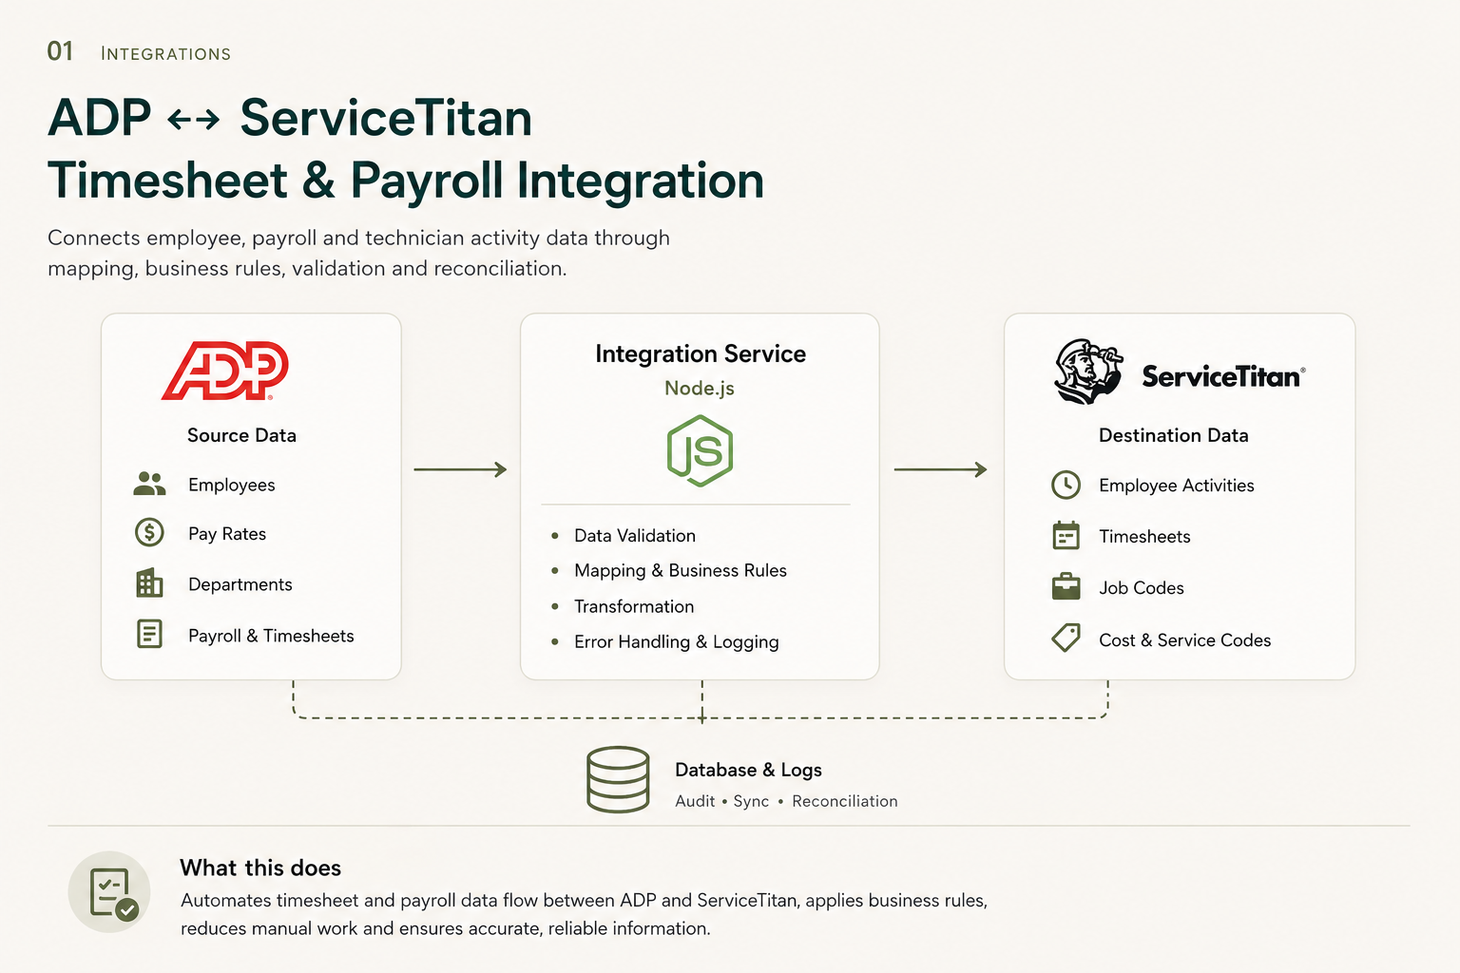
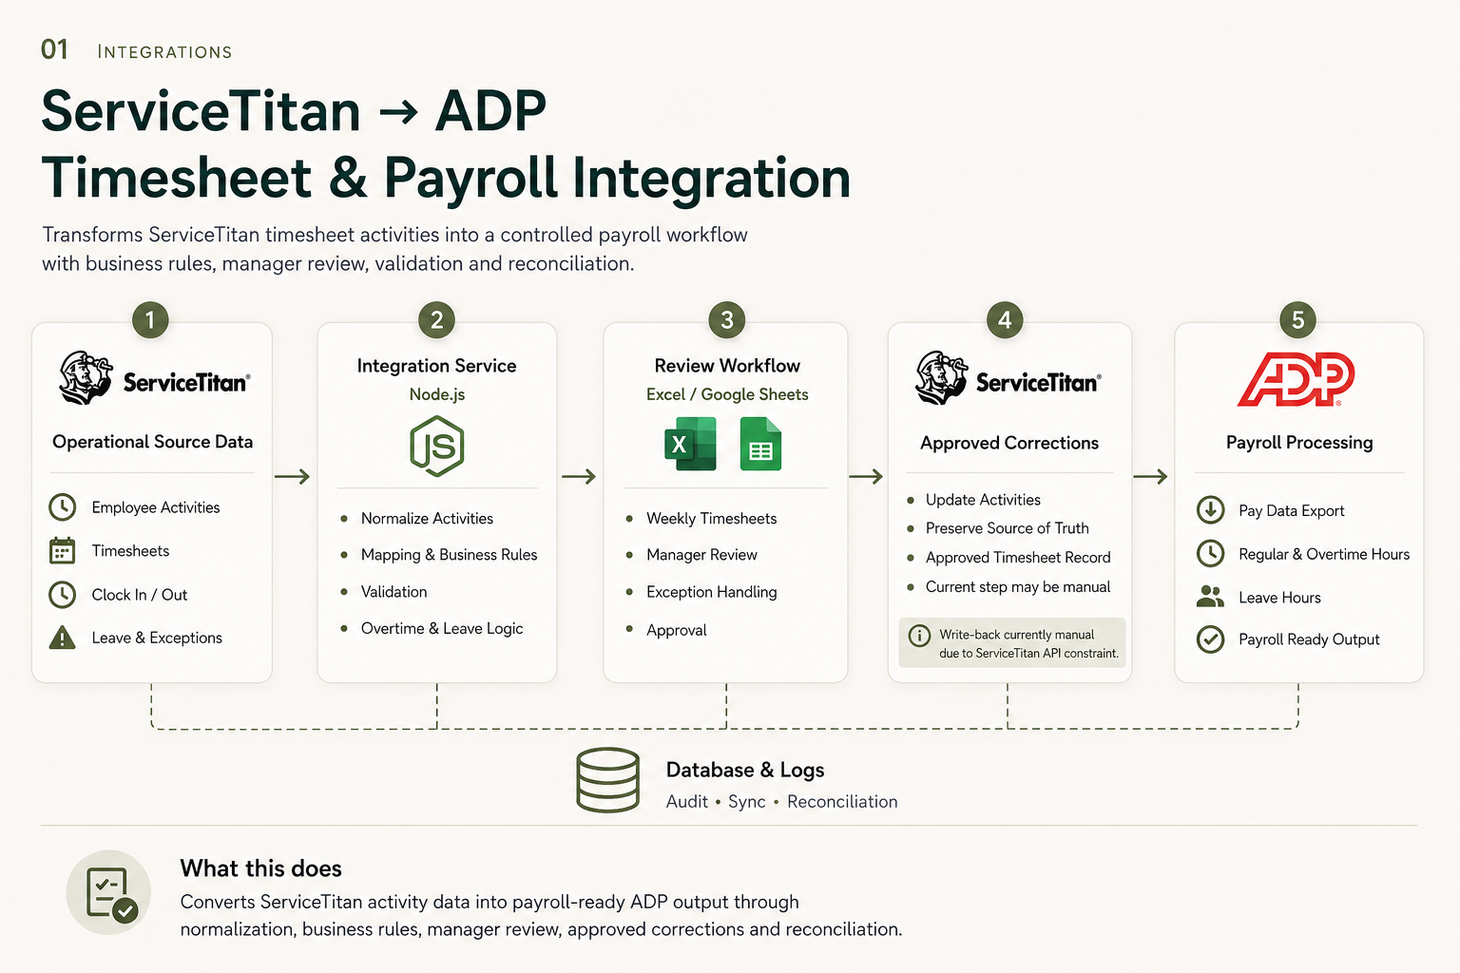
Update ServiceTitan payroll case study

diff --git a/case-studies.js b/case-studies.js
@@ -5,14 +5,14 @@ const cases={
   crm:{index:"04",title:"CRM Integration & Reporting System",image:"../assets/images/detail_pages/crm-integration-hero.png",caption:"The review experience keeps matching decisions and exceptions visible instead of hiding them in system logs.",position:"Connecting operational data so routine work is automated and exceptions stay visible.",role:"Requirements · Integration · Delivery",focus:"Systems",tech:"Node.js · APIs · SQL · Automation",problem:"Customer and operational information moves between tools that were not designed as one system. Manual transfer and reconciliation make accuracy depend on repeated human effort.",learned:"I translated the operational workflow into requirements and rules: where records originate, how matches are identified, what can be automated safely and which cases require review.",approach:"Map the operational decisions with stakeholders before building the connection, then treat validation, matching and exception handling as part of the core workflow.",built:"The system connects CRM and operational data, validates and matches records, preserves ambiguous cases for review and supports auditable reporting.",ux:"Status language explains what happened, what did not happen and what action is available. The review experience prioritizes exceptions instead of raw technical logs.",implementation:"Node.js coordinates API requests and workflow rules; SQL supports record and audit views; automated jobs advance repeatable work while keeping exceptions visible.",accessibility:"Review states use text as well as colour, controls support keyboard use, and tables retain meaningful headers and reading order.",measurement:"The framework includes reconciliation quality, exception volume and age, successful processing, duplicate prevention and remaining manual effort.",outcome:"The system connects operational data and makes reporting more reliable through a consistent, auditable workflow. No undocumented record counts or time savings are claimed.",lesson:"A reliable integration needs to explain its exceptions as clearly as it handles successful records.",flow:["Receive","Validate","Connect","Review"],next:"../index.html#work",nextTitle:"Return to selected work"},
   reporting:{index:"Supporting example",title:"Automated Reporting Dashboard",position:"Turning recurring report preparation into a clearer, repeatable view of operational performance.",role:"Requirements · Data logic · Experience",focus:"Reporting",tech:"SQL · Dashboards · KPI Reporting · Automation",problem:"Useful data is distributed across systems, leaving someone to repeatedly gather, clean and format it. Definitions can drift and stakeholders can struggle to see what needs attention.",learned:"I worked backward from stakeholder questions: which measures matter, how each is defined, what context makes it useful and how often it needs to refresh.",approach:"Start with the decision, agree on definitions and then build the smallest useful reporting view around those questions.",built:"The reporting system centralizes operational data, applies reusable KPI logic and presents dashboard views organized around recurring business questions.",ux:"KPI names use business language, definitions stay consistent and context appears close to the number it explains. Views prioritize decisions over every available metric.",implementation:"SQL structures and prepares data; automation supports consistent refreshes; dashboard components communicate totals, trends, comparisons and exceptions.",accessibility:"Charts are supported by labels or tabular values, colour is never the only signal, keyboard focus is visible and responsive views preserve meaning.",measurement:"The workflow can be assessed through refresh reliability, data exceptions, stakeholder comprehension, recurring usage and remaining manual preparation.",outcome:"The qualitative value is centralized KPI reporting, less repetitive preparation and clearer operational visibility. No undocumented percentage or time saving is presented.",lesson:"A dashboard becomes useful when the language and definitions are as reliable as the data.",flow:["Collect","Prepare","Calculate","Explain"],next:"../index.html#work",nextTitle:"Return to selected work"}
 };
-cases.adp={index:"01",title:"ADP ↔ ServiceTitan Timesheet & Payroll Integration",position:"Connecting employee, payroll and technician activity data through a controlled operational workflow.",role:"Requirements · Integration · Production support",focus:"Systems Integration",tech:"Node.js · REST APIs · Data Mapping · Reconciliation",problem:"Timesheet and payroll processing depends on employee data, technician activity and operational rules that live across separate systems. Without a controlled integration, mapping differences and exceptions require repeated manual checking.",learned:"I mapped how employee and technician identities relate, which activity belongs in the payroll workflow, how overtime and leave rules affect processing, and which exceptions need review before an update is accepted.",approach:"Treat the payroll workflow as a sequence of explicit business decisions: identify the person, normalize the activity, apply the relevant rule, validate the result and preserve anything uncertain for review.",built:"A timesheet and payroll integration that coordinates ADP employee and payroll data with ServiceTitan technician and activity data. The workflow supports mapping, business rules, validation, exception handling and reconciliation.",ux:"Review information is organized around actionable exceptions rather than raw payloads. Spreadsheet-based review can support the workflow where human verification is required without becoming the source of hidden business logic.",implementation:"Node.js services coordinate REST API requests and integration rules. Mapping connects employee and technician records; processing rules account for timesheet conditions such as overtime and leave; validation gates updates before synchronization.",accessibility:"Operational status and exception states use clear text labels, reviewable tables and consistent terminology so that decisions do not depend on colour alone.",measurement:"The workflow can be evaluated through successful processing, unresolved exceptions, reconciliation differences, duplicate prevention and the amount of manual correction still required.",outcome:"The integration creates a repeatable path between timesheet, payroll and operational data while keeping exceptions available for human review. No confidential records or undocumented performance metrics are presented.",lesson:"Payroll automation is reliable only when mapping, business rules and reconciliation are designed as core parts of the system.",flow:["Map","Apply rules","Validate","Synchronize"],requirements:"The integration needs to preserve employee and technician identity across systems, apply payroll-related rules consistently, prevent invalid updates and provide a review path for overtime, leave and mapping exceptions.",architecture:["ADP employee / payroll data","ServiceTitan technician / activity data","Mapping + business rules","Validation + update workflow","Review + reconciliation"],validation:"Records are normalized and matched before payroll rules are applied. Invalid, incomplete or ambiguous cases are held for review rather than synchronized automatically. Reconciliation compares processed results with the expected operational state; Excel or Google Sheets may support review where it is part of the real operating workflow.",next:"spotio-servicetitan-integration.html",nextTitle:"Spotio ↔ ServiceTitan CRM Integration"};
+cases.adp={index:"01",title:"ServiceTitan → ADP Timesheet & Payroll Integration",position:"Turning operational time tracking into a controlled payroll workflow with manager review, business-rule validation and reconciliation.",role:"Requirements · Systems Integration · Workflow Design · Production Support",focus:"Systems Integration · Payroll Automation",tech:"Node.js · REST APIs · Excel / Google Sheets · Data Mapping · Validation · Reconciliation",problem:"Employees record their working time in ServiceTitan, but the activity data generated during the workday is not automatically ready for payroll. A single employee can have multiple daily activities—including working periods, onsite time, office time, meals and leave—while payroll also depends on unpaid lunch deductions, weekly overtime and approved leave. Managers need to review and correct this information without manually reconstructing every employee’s week.",learned:"I mapped the full timesheet lifecycle: ServiceTitan activity → normalization → business rules → manager review → correction → approval → payroll processing. This required understanding which activities represent payable time, how multiple activities combine into a workday, how leave is represented, how weekly overtime is calculated and how approved corrections propagate. The process applies to every employee included in the payroll workflow, not only field technicians.",approach:"I designed the integration around one principle: payroll data should not leave the operational workflow until it has been validated. ServiceTitan remains the operational system of record. The integration extracts and normalizes its activity data, then generates structured Excel / Google Sheets timesheets for manager review and approval.",built:"I developed a Node.js integration that retrieves ServiceTitan timesheet activities and converts them into a structured payroll review workflow. It extracts activities, normalizes employee/day/week records, applies payroll rules, generates manager-facing timesheets, captures approved corrections and prepares validated data for ADP.",ux:"The spreadsheet is an operational review and approval layer, not just a reporting output. Managers can inspect employee hours, identify exceptions and provide corrections before payroll continues. Cases where automation should not guess—missing mappings, incomplete activities, unexpected activity types or inconsistent time records—remain visible for review.",implementation:"Node.js services coordinate ServiceTitan and ADP REST API operations, employee mapping, activity classification, business-rule processing and validation. Activities are processed individually instead of collapsing a day into its first start and last end time, preventing excluded intervals from being paid. The workflow preserves intermediate results so managers can see why regular, overtime or leave hours were produced.",accessibility:"Manager-facing weekly views use structured labels, consistent terminology and visible exception states. Decisions do not depend on colour alone, and the review workflow keeps the reason for each calculated result available to the reviewer.",measurement:"The workflow can be evaluated through successfully processed employee timesheets, unresolved activity and identity exceptions, manager corrections required before approval, reconciliation differences, rejected or failed system updates and payroll records successfully prepared after validation.",outcome:"The integration replaces fragmented payroll preparation with a repeatable path: ServiceTitan activity → payroll rules → manager review → approved operational record → ADP. It preserves a clear source of truth by resolving corrections in ServiceTitan before payroll is generated. No confidential employee information or undocumented performance metrics are presented.",lesson:"The difficult part of payroll integration is not moving data between two APIs; it is deciding when data is trustworthy enough to move. Explicit business rules, manager review and reconciliation make the workflow safer and easier to reason about.",flow:["Extract","Normalize","Apply rules","Review","Correct & approve","Synchronize"],requirements:"Worked activities are evaluated individually so excluded periods are not accidentally paid. Processing accounts for payable versus non-payable activity types, unpaid meal time, Sick, Vacation and Bereavement leave, weekly overtime after 44 hours, employee-to-payroll identity mapping and incomplete or ambiguous records requiring review.",architecture:["Time recorded in ServiceTitan","Extract + process activities","Excel / Google Sheets review","Manager correction + approval","Corrections return to ServiceTitan","Validated data prepared for ADP","Reconciliation"],validation:"Valid records proceed; records requiring manager review, mapping failures, business-rule exceptions, write failures and reconciliation differences remain visible. The target workflow writes approved corrections back to ServiceTitan, but its activity update endpoint currently returns ‘Active Transaction is required for this operation.’ Corrections are therefore applied manually in ServiceTitan until the API issue is resolved. The corrected ServiceTitan record must exist before it becomes payroll input.",next:"spotio-servicetitan-integration.html",nextTitle:"Spotio ↔ ServiceTitan CRM Integration"};
 cases.spotio={index:"02",title:"Spotio ↔ ServiceTitan CRM Integration",position:"Synchronizing field-sales and operational records without losing matching context or creating duplicates.",role:"Requirements · Integration · Production support",focus:"CRM Integration",tech:"Node.js · REST APIs · Webhooks · Data Mapping",problem:"Sales activity and operational delivery live in different systems. Records need to move between Spotio and ServiceTitan without creating duplicate customers, losing field context or overwriting the wrong operational record.",learned:"I defined how incoming events should be matched, which fields belong in each system, when an existing record should be updated and which ambiguous cases must be reviewed.",approach:"Translate the sales-to-operations workflow into explicit matching and upsert rules, then validate webhook events and mapped fields before writing to the destination system.",built:"An API and webhook integration between Spotio and ServiceTitan with record matching, upsert behavior, deduplication, custom-field mapping and visible exception handling.",ux:"Operational statuses explain whether a record was created, updated, skipped or held for review. This keeps support work focused on exceptions rather than forcing users to inspect raw webhook data.",implementation:"Webhook events initiate the workflow; Node.js services validate and normalize incoming data, apply matching and deduplication rules, map custom fields and call the appropriate REST API operation.",accessibility:"Review states use clear language and structured tables, with text indicators for processing outcomes and exceptions.",measurement:"Useful signals include accepted and rejected events, match confidence, prevented duplicates, synchronization failures, retry outcomes and unresolved exceptions.",outcome:"The integration connects the sales and operational workflows through a consistent synchronization process. Sensitive payloads, customer data and undocumented metrics are not shown.",lesson:"A CRM integration is defined as much by its matching and duplicate-prevention rules as by its API calls.",flow:["Receive","Match","Upsert","Reconcile"],requirements:"The workflow must verify webhook inputs, preserve identifiers, map custom fields, distinguish create from update behavior and stop uncertain matches from producing duplicate operational records.",architecture:["Spotio event / record","Webhook receiver","Validation + matching","ServiceTitan API upsert","Exceptions + reconciliation"],validation:"Incoming events are validated before mapping. Matching and deduplication rules determine whether the workflow creates, updates, skips or holds a record. Failures and ambiguous matches remain visible for investigation and controlled retry.",next:"reporting-dashboard.html",nextTitle:"Job Costing & Operational Reporting System"};
 Object.assign(cases.reporting,{index:"03",title:"Job Costing & Operational Reporting System",position:"Combining operational and financial data into reconciled job-costing views for business decisions.",focus:"Data & Reporting",tech:"SQL · Data Workflows · KPI Reporting · Automation",problem:"Job costs and operational context are distributed across systems and reports. Repeated manual preparation makes it harder to maintain consistent definitions and reconcile the numbers used in business review.",learned:"I worked backward from the costing questions stakeholders needed to answer, then identified the source fields, business definitions, joins, exceptions and review steps required to produce a useful view.",approach:"Define the business meaning of each cost and operational measure first, then collect, normalize, join and validate the supporting data before presenting it.",built:"A job-costing and operational reporting workflow that combines source data, applies consistent calculation logic and produces repeatable views for review.",implementation:"SQL and structured data workflows prepare operational and financial inputs. Reusable calculation logic supports consistent job-costing definitions, while automated refresh and reconciliation steps keep exceptions visible.",outcome:"The system provides a repeatable, reviewable view of job costs and operational performance without exposing company figures or claiming undocumented savings.",flow:["Collect","Normalize","Calculate","Reconcile"],next:"seo-ai-platform.html",nextTitle:"SEO AI & Analytics Platform"});
 Object.assign(cases.seo,{index:"04",tech:"React · Node.js · Supabase · OpenAI · GSC · GA4",next:"interactive-pricing-calculator.html",nextTitle:"Gutter Cleaning Cost Calculator"});
 Object.assign(cases.calculator,{index:"05",next:"hss-seo-system.html",nextTitle:"HSS Website & Local SEO System"});
 Object.assign(cases.hss,{index:"06",title:"HSS Website & Local SEO System",next:"../index.html#work",nextTitle:"Return to selected work"});
 const workImages={adp:"1",spotio:"2",reporting:"3",seo:"4",calculator:"5",hss:"6"};
-Object.entries(workImages).forEach(([key,number])=>Object.assign(cases[key],{image:`../assets/images/work/${number}.png`,caption:`Sanitized project overview for ${cases[key].title}.`}));
+Object.entries(workImages).forEach(([key,number])=>Object.assign(cases[key],{image:`../assets/images/work/${number}.png`,caption:key==="adp"?"Sanitized project overview showing the operational flow from ServiceTitan timesheets through review and approval to payroll processing in ADP.":`Sanitized project overview for ${cases[key].title}.`}));
 const main=document.querySelector("[data-case]"),c=cases[main.dataset.case];
 const visual=c.image?`<figure class="case-visual"><img src="${c.image}" alt="${c.title} project overview" loading="eager" onerror="this.closest('figure').hidden=true"><figcaption>${c.caption}</figcaption></figure>`:c.visual==="calculator"?`<figure class="case-visual calculator-visual"><div class="calculator-representation" role="img" aria-label="Recreated calculator interface showing the source defaults: 120 linear feet, one story and three annual cleanings, producing a $540 annual estimate and $10,800 projected 20-year cleaning cost"><span class="calculator-label">Gutter Cleaning Cost Calculator</span><div class="calculator-fields"><span>Linear Feet of Gutters <b>120</b></span><span>Number of Stories <b>1</b></span><span>Annual Cleaning Frequency <b>3</b></span><button type="button" tabindex="-1">Calculate</button></div><div class="calculator-results"><span>Estimated Annual Cleaning Cost <b>$540.00</b></span><span>Projected 20-Year Cleaning Cost <b>$10,800.00</b></span></div><div class="calculator-cta"><span>Start Saving</span><span>Explore Alu-Rex</span></div></div><figcaption>Recreated from the source interface and default calculation. The 20-year figure is annual cleaning cost × 20, not verified net savings.</figcaption></figure>`:`<figure class="case-visual case-concept" aria-label="Conceptual layout showing organized information moving into a clear experience"><span>${c.focus} / organized for decisions</span></figure>`;
 const improvements=c.nextImprovements?`<h3>Next improvements</h3><ul>${c.nextImprovements.map(x=>`<li>${x}</li>`).join("")}</ul>`:"";

diff --git a/script.js b/script.js
@@ -1,7 +1,7 @@
 /** @typedef {{id:string,title:string,status?:string,category:string,filter:string,summary:string,tech:string,value:string,url:string,visual:string,image:string}} Project */
 /** @type {readonly Project[]} */
 const projects=Object.freeze([
-  {id:"01",title:"ADP ↔ ServiceTitan Timesheet & Payroll Integration",category:"Integrations",filter:"integrations",summary:"Connects employee, payroll and technician activity data through mapping, business rules, validation, exception review and reconciliation.",tech:"Node.js · REST APIs · Data Mapping · Reconciliation",value:"Turns a multi-system timesheet and payroll workflow into a controlled, reviewable integration.",url:"projects/adp-servicetitan-integration.html",visual:"crm",image:"assets/images/work/1.png"},
+  {id:"01",title:"ServiceTitan → ADP Timesheet & Payroll Integration",category:"Integrations",filter:"integrations",summary:"Turns ServiceTitan activity data into a controlled payroll workflow with business-rule validation, manager review, approved corrections and reconciliation.",tech:"Node.js · REST APIs · Excel / Google Sheets · Data Mapping · Validation · Reconciliation",value:"Transforms operational time tracking into payroll-ready data without removing human review or compromising the source of truth.",url:"projects/adp-servicetitan-integration.html",visual:"crm",image:"assets/images/work/1.png"},
   {id:"02",title:"Spotio ↔ ServiceTitan CRM Integration",category:"Integrations",filter:"integrations",summary:"Synchronizes sales and operational records through API and webhook workflows with matching, upsert logic, deduplication and custom-field mapping.",tech:"Node.js · REST APIs · Webhooks · Data Mapping",value:"Connects field-sales and operational workflows while preventing duplicate or mismatched records.",url:"projects/spotio-servicetitan-integration.html",visual:"crm",image:"assets/images/work/2.png"},
   {id:"03",title:"Job Costing & Operational Reporting System",category:"Data & Reporting",filter:"data-reporting",summary:"Combines operational and financial data, applies consistent costing rules and produces repeatable reporting for business review.",tech:"SQL · Data Workflows · KPI Reporting · Automation",value:"Transforms distributed job data into reconciled costing and operational views for decision-making.",url:"projects/reporting-dashboard.html",visual:"reporting",image:"assets/images/work/3.png"},
   {id:"04",title:"SEO AI & Analytics Platform",status:"In development",category:"AI & Internal Tools",filter:"ai-tools",summary:"A React and Node.js internal platform that combines search and analytics signals with reviewable AI-assisted research and recommendations.",tech:"React · Node.js · Supabase · OpenAI · GSC · GA4",value:"Creates a traceable workflow from scattered search data to prioritized content tasks.",url:"projects/seo-ai-platform.html",visual:"seo",image:"assets/images/work/4.png"},

diff --git a/projects/adp-servicetitan-integration.html b/projects/adp-servicetitan-integration.html
@@ -1,1 +1,1 @@
-<!doctype html><html lang="en"><head><meta charset="utf-8"><meta name="viewport" content="width=device-width,initial-scale=1"><title>ADP ↔ ServiceTitan Timesheet & Payroll Integration | Liz Alvarez Scudeller</title><meta name="description" content="A timesheet and payroll integration using mapping, business rules, validation, exception handling and reconciliation."><link rel="canonical" href="https://lizscudeller.com/projects/adp-servicetitan-integration.html"><link rel="stylesheet" href="../assets/css/style.css"><link rel="stylesheet" href="../assets/css/project-details.css"></head><body><a class="skip-link" href="#main">Skip to main content</a><header class="site-header"><a class="wordmark" href="../index.html">LIZ<span>/</span>DEV</a><nav class="nav"><a href="../index.html#work">Work</a><a href="../index.html#about">About</a><a href="../index.html#contact">Contact</a></nav></header><main id="main" class="case-main" data-case="adp"></main><script src="../case-studies.js"></script></body></html>
+<!doctype html><html lang="en"><head><meta charset="utf-8"><meta name="viewport" content="width=device-width,initial-scale=1"><title>ServiceTitan → ADP Timesheet & Payroll Integration | Liz Alvarez Scudeller</title><meta name="description" content="Turning operational time tracking into a controlled payroll workflow with manager review, business-rule validation and reconciliation."><link rel="canonical" href="https://lizscudeller.com/projects/adp-servicetitan-integration.html"><link rel="stylesheet" href="../assets/css/style.css"><link rel="stylesheet" href="../assets/css/project-details.css"></head><body><a class="skip-link" href="#main">Skip to main content</a><header class="site-header"><a class="wordmark" href="../index.html">LIZ<span>/</span>DEV</a><nav class="nav"><a href="../index.html#work">Work</a><a href="../index.html#about">About</a><a href="../index.html#contact">Contact</a></nav></header><main id="main" class="case-main" data-case="adp"></main><script src="../case-studies.js"></script></body></html>
